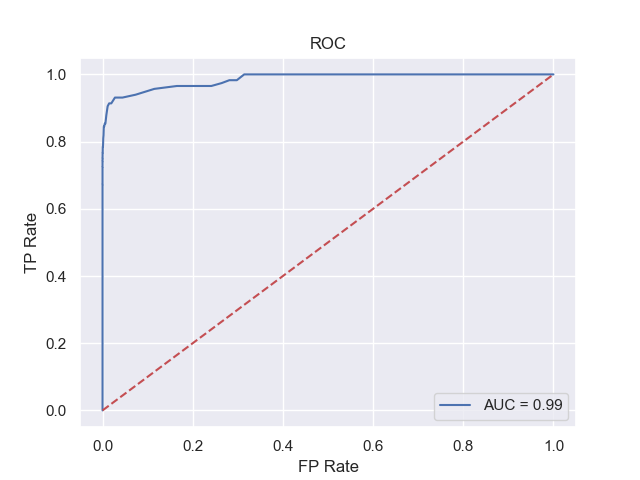
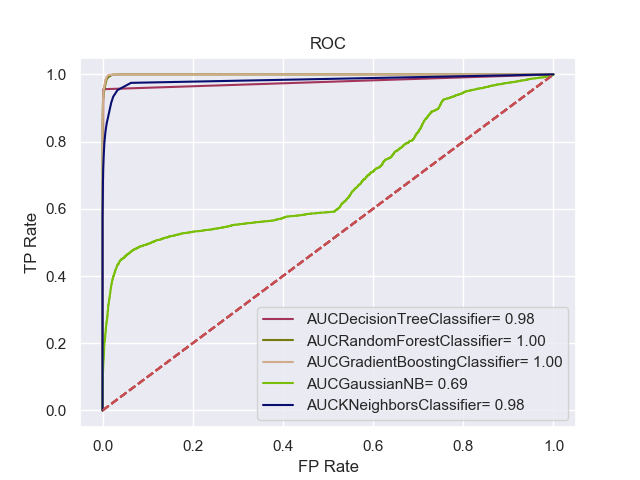
просев выборки

diff --git a/diploma/diplomaPy/test.py b/diploma/diplomaPy/test.py
@@ -1,18 +1,19 @@
 import numpy as np
+import random
 from pandas import read_csv as read
 import pandas as pd
 import seaborn as sns; sns.set(color_codes=True)
 import matplotlib.pyplot as plt
 
-path = "new.csv"
-rows = 1500000
-data = read(path, delimiter=",", nrows=rows)
+path = "newFilt.csv"
+data = read(path, delimiter=",")
 
 print(data.corr())
 # print(data.head())
 
-data.drop(columns=['isFlaggedFraud', 'nameOrig', 'nameDest'], axis=1, inplace=True)
-
+data.drop('isFlaggedFraud', axis=1, inplace=True)
+data.drop('nameOrig', axis=1, inplace=True)
+data.drop('nameDest', axis=1, inplace=True)
 
 from sklearn.preprocessing import LabelEncoder
 
@@ -46,11 +47,11 @@ from sklearn.tree import DecisionTreeClassifier
 from sklearn import metrics
 
 models = []
-# models.append(DecisionTreeClassifier())
+models.append(DecisionTreeClassifier())
 models.append(RandomForestClassifier(n_estimators=110, n_jobs=-1))
-# models.append(GradientBoostingClassifier(max_depth=4))
-# models.append(GaussianNB())
-# models.append(KNeighborsClassifier(n_neighbors=20))
+models.append(GradientBoostingClassifier(max_depth=4))
+models.append(GaussianNB())
+models.append(KNeighborsClassifier(n_neighbors=20))
 
 for model in models:
     
@@ -65,12 +66,12 @@ for model in models:
     roc_auc = metrics.auc(fpr, tpr)
 
     plt.title("ROC")
-    plt.plot(fpr, tpr, 'b', label='AUC = %0.2f' % roc_auc)
+    plt.plot(fpr, tpr, 'b', label=f'AUC{type(model).__name__}' + '= %0.2f' % roc_auc, color=(random.uniform(0,1), random.uniform(0, 1), random.uniform(0, 1)))
     plt.legend(loc = 'lower right')
     plt.plot([0, 1], [0, 1], 'r--')
     plt.xlabel('FP Rate')
     plt.ylabel('TP Rate')
-    plt.savefig("roc.png")
+    
 
     report = metrics.classification_report(expected, predicted)
     conf_matrix = metrics.confusion_matrix(expected, predicted)
@@ -79,4 +80,11 @@ for model in models:
     print(report)
     print(conf_matrix)
     print(metrics.roc_auc_score(expected, preds))
-    print(roc_auc)
+    # print(roc_auc)
+
+    # df = pd.DataFrame()
+    # df['Exp'] = expected
+    # df['pre'] = predicted
+    # df.to_csv('ep.csv', index=False)
+
+plt.savefig("roc.png")

diff --git a/diploma/diplomaPy/dataprep.py b/diploma/diplomaPy/dataprep.py
@@ -1,8 +1,8 @@
 import numpy as np
 from pandas import read_csv as read
 
-path = "data.csv"
-data = read(path, delimiter=",", nrows=2000000)
+path = "filtData.csv"
+data = read(path, delimiter=",", nrows=70000000)
 
 senders = set()
 receivers = set()
@@ -91,4 +91,4 @@ data['LTR'] = last_trans_receiver
 data['IZoB'] = is_zero_on_balance
 
 
-data.to_csv("new.csv", index=False)
+data.to_csv("newFilt.csv", index=False)

diff --git a/diploma/diplomaPy/nonfraudfiltering.py b/diploma/diplomaPy/nonfraudfiltering.py
@@ -1,0 +1,17 @@
+import numpy as np
+import random
+from pandas import read_csv as read
+
+path = "data.csv"
+data = read(path, delimiter=",", nrows=7000000)
+
+X = data.values
+drops = list()
+for i in range(0, len(X)):
+    if (i % 500000 == 0):
+        print(i)
+    if X[i][9] == 0 and random.randint(0, 60) < 60:
+        drops.append(i)
+
+new = data.drop(drops)
+new.to_csv("filtData.csv", index=False)
